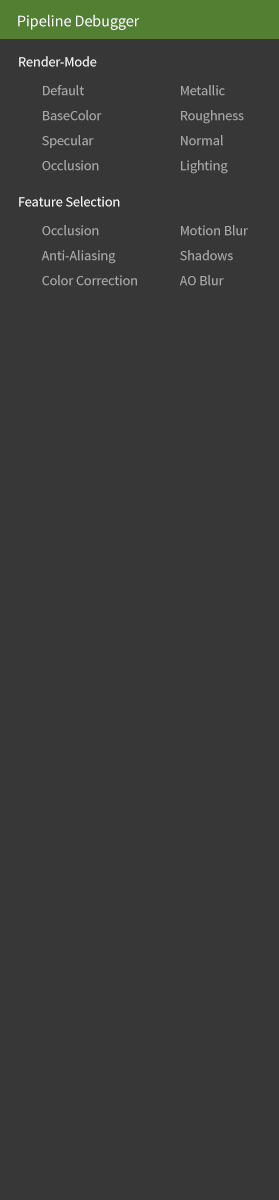
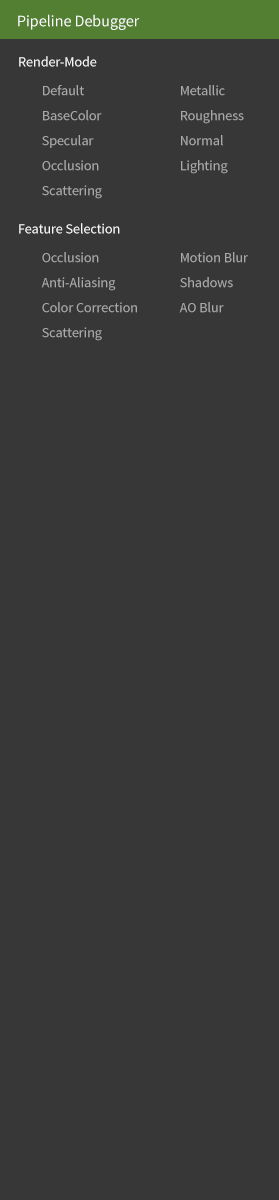
Missing files from last commit

Changed region(s): [[0.0573, 0.1542, 0.4875, 0.2775], [0.6308, 0.185, 0.8889, 0.2775]]

diff --git a/Code/PipelineGuiManager.py b/Code/PipelineGuiManager.py
@@ -201,6 +201,12 @@ class PipelineGuiManager(DebugObject):
             parent=self.debuggerParent, x=checkboxX + 138, y=currY, callback=self._updateSetting, extraArgs=["rm_Lighting", False], radio=True)
 
 
+        currY += 25
+
+        self.chbRM_Scattering = BetterCheckbox(
+            parent=self.debuggerParent, x=checkboxX, y=currY, callback=self._updateSetting, extraArgs=["rm_SCATTERING", False], radio=True)
+
+
         # self.chbRM_Wireframe = BetterCheckbox(
         # parent=self.debuggerParent, x=150, y=currY,
         # callback=self._updateSetting, extraArgs=["rm_Wireframe", False],
@@ -216,10 +222,11 @@ class PipelineGuiManager(DebugObject):
         self.renderModes.add(self.chbRM_Normal)
         self.renderModes.add(self.chbRM_SSDO)
         self.renderModes.add(self.chbRM_Lighting)
+        self.renderModes.add(self.chbRM_Scattering)
 
         # Features
 
-        currY = 222
+        currY = 250
 
         self.chbFT_SSDO = BetterCheckbox(
             parent=self.debuggerParent, x=checkboxX, y=currY, callback=self._updateSetting, extraArgs=["ft_SSDO", True], checked=True)
@@ -244,7 +251,17 @@ class PipelineGuiManager(DebugObject):
         self.chbFT_AOBlur = BetterCheckbox(
             parent=self.debuggerParent, x=checkboxX + 138, y=currY, callback=self._updateSetting, extraArgs=["ft_BLUR_OCCLUSION", True], checked=True)
 
+
+        currY += 25
+
+        self.chbFT_Scattering = BetterCheckbox(
+            parent=self.debuggerParent, x=checkboxX, y=currY, callback=self._updateSetting, extraArgs=["ft_SCATTERING", True], checked=True)
+
+
+
         self.initialized = True
+
+
 
     def _updateSetting(self, status, name, updateWhenFalse=False):
         # self.debug("Update setting:", name, "=", status, "whenFalse=",updateWhenFalse)

diff --git a/Code/Light.py b/Code/Light.py
@@ -36,6 +36,8 @@ class Light(ShaderStructElement):
         self.sourceIndexes = PTAInt.emptyArray(6)
         self.attached = False
         self.shadowResolution = 512
+        self.ambient = Vec3(0.2,0.5,0.8)
+
 
         for i in range(6):
             self.sourceIndexes[i] = -1
@@ -52,6 +54,7 @@ class Light(ShaderStructElement):
             "lightType": "int",
             "radius": "float",
             "sourceIndexes": "array<int>(6)",
+            "ambient": "vec3"
         }
 
     def getTypeName(self):
@@ -67,6 +70,12 @@ class Light(ShaderStructElement):
             raise Exception(
                 "You cannot change the resolution after the light got attached")
         self.shadowResolution = resolution
+
+    def setAmbientColor(self, ambientColor):
+        """ Sets the ambient color for lighting. The default is a bluish-gray.
+        The ambient color will be added to the final light contribution """
+        self.ambient = ambientColor
+        self.queueUpdate()
 
     def setDirection(self, direction):
         """ Sets the direction of the light. This stores from which vector the light
